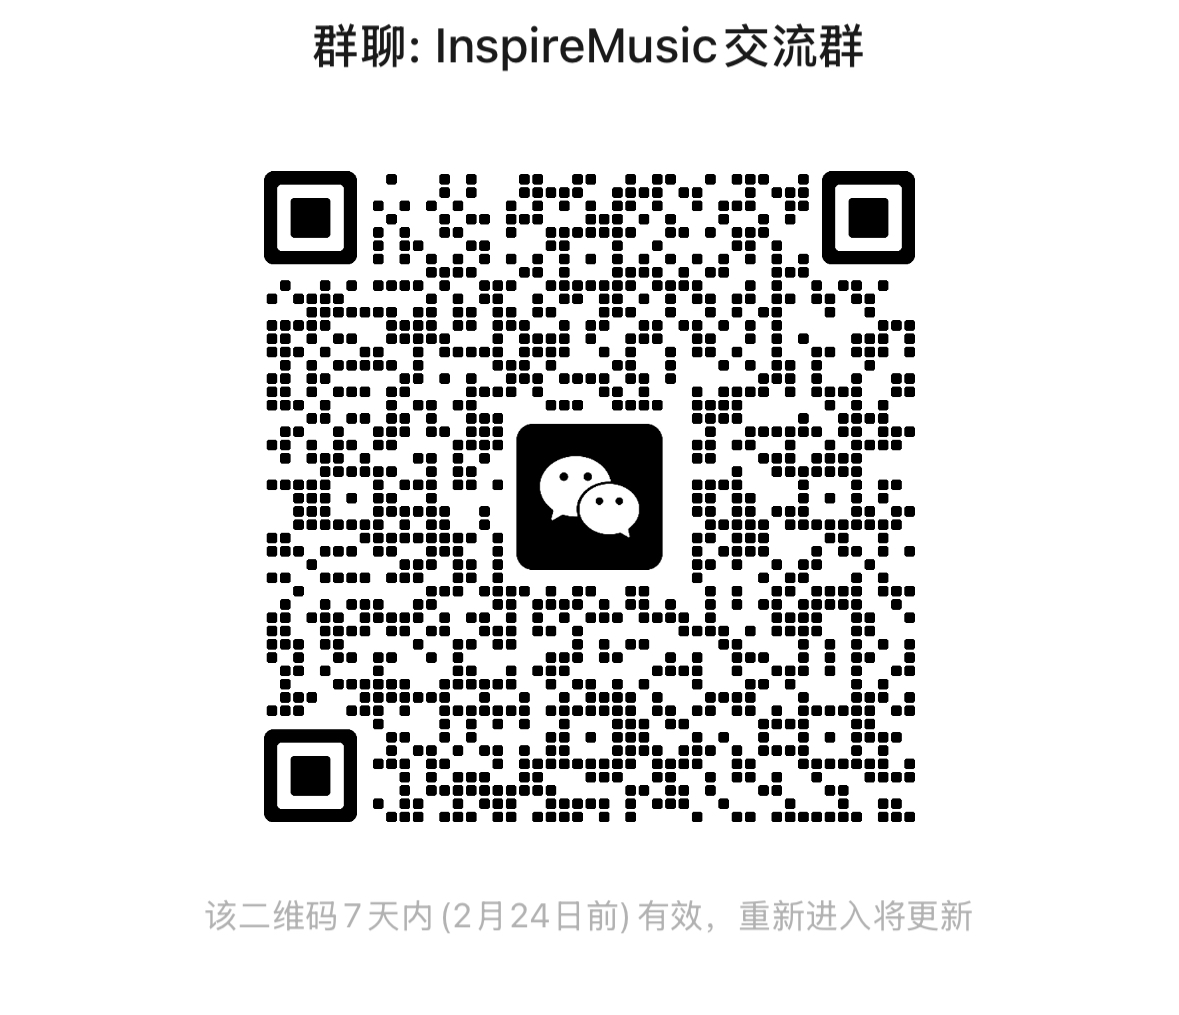
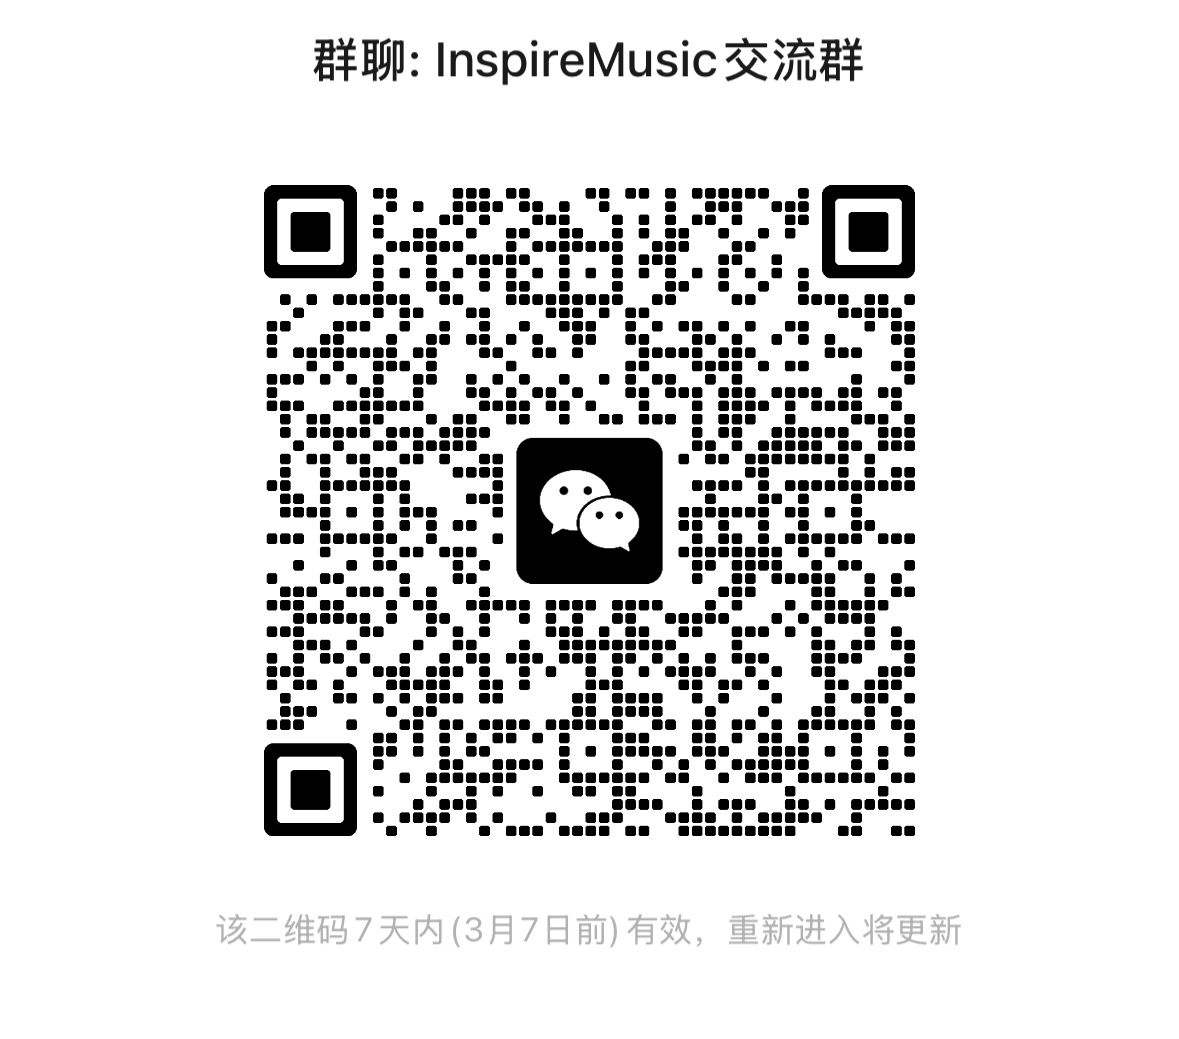
update README.md

diff --git a/setup.py b/setup.py
@@ -17,9 +17,7 @@
 
 import os
 
-from setuptools import find_packages
-from setuptools import setup
-
+from setuptools import find_packages, setup
 
 requirements = {
     "install": [

diff --git a/README.md b/README.md
@@ -463,14 +463,19 @@ Checkout some awesome Github repositories from Tongyi Lab, Alibaba Group.
         <a href="./asset/QR.jpg"><img alt="FunAudioLLM in DingTalk" src="https://img.shields.io/badge/FunAudioLLM-DingTalk-d9d9d9"></a>
       </td>
       <td style="text-align:center;">
+        <a href="./asset/QR.jpg"><img alt="InspireMusic in DingTalk" src="https://img.shields.io/badge/InspireMusic-DingTalk-d9d9d9"></a>
+      </td>
+      <td style="text-align:center;">
         <a href="./asset/QR.jpg"><img alt="InspireMusic in WeChat" src="https://img.shields.io/badge/InspireMusic-WeChat-d9d9d9"></a>
       </td>
     </tr>
     <tr>
        <td style="text-align:center;">
-      <img alt="Light" src="./asset/dingding.png" width="68%" />
+      <img alt="Light" src="./asset/dingding.png" width="33%" />
       <td style="text-align:center;">
-      <img alt="Light" src="./asset/QR.jpg" width="58%" />
+      <img alt="Light" src="./asset/dingtalk.jpg" width="33%" />
+      <td style="text-align:center;">
+      <img alt="Light" src="./asset/QR.jpg" width="33%" />
       </td>
     </tr>
   </table>
